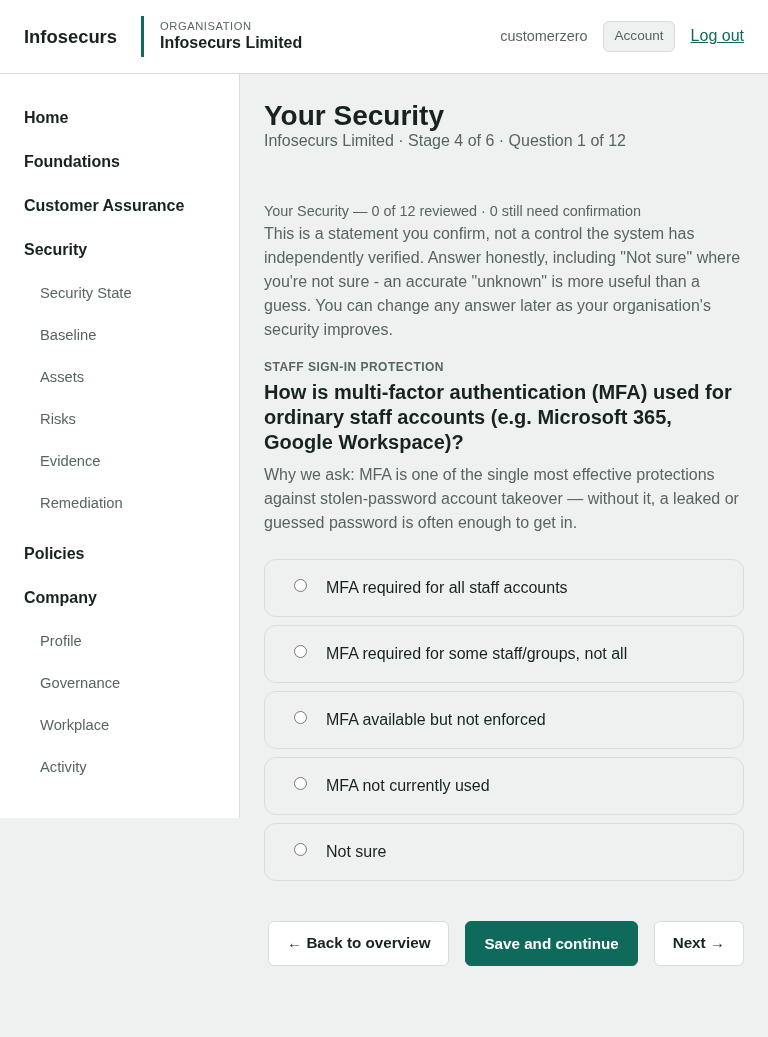
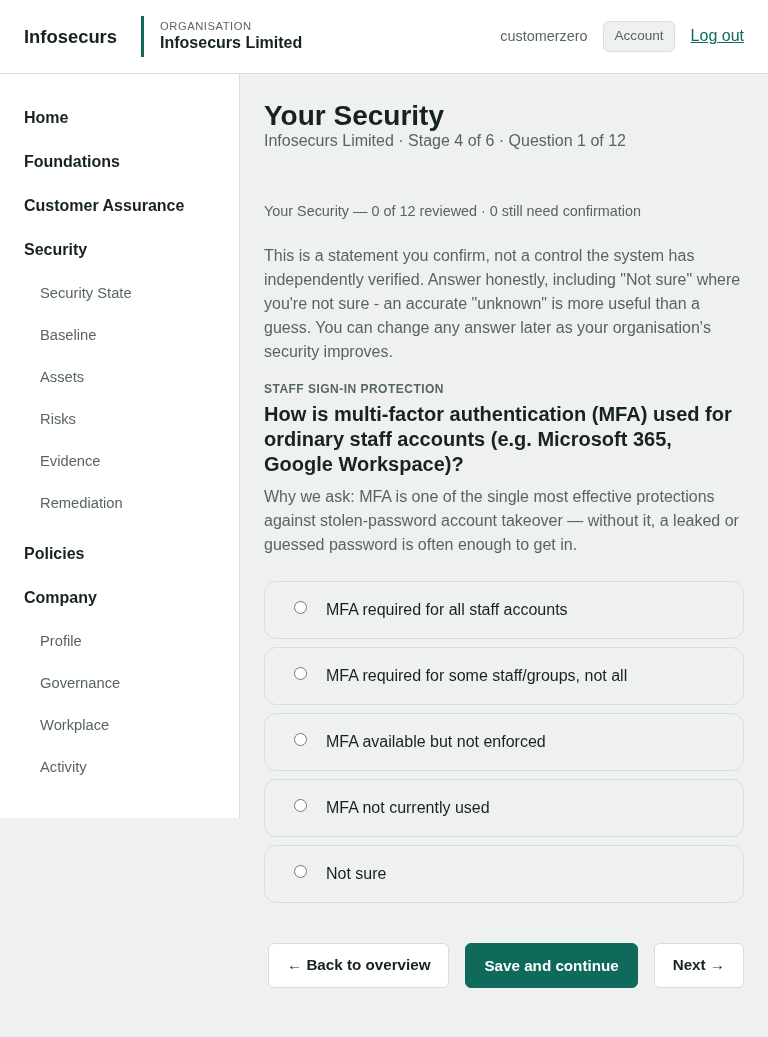
[M008E-WI1] Fix 375px overflow regression in the shared .progress component
Found by a full-repository pytest run after the Phase 2 implementation
commit: core/tests/test_wi6_area_smoke_browser_acceptance.py's
real-browser 375px overflow check failed on the Baseline area (which
redirects into the Stage 4 question page this Work Order restyled) -
scrollWidth 393 versus clientWidth 375. Five other apps' narrow-viewport
tests errored with Postgres deadlock/duplicate-key teardown failures in
the same run - re-running each in isolation after this fix confirms they
were a cascade from the one real failure above, not independent defects.

Root cause: generalising Stage 4's former page-local .stage4-progress
rule into the new shared .progress component dropped its flex-wrap: wrap
- at 375px the progress label text is long enough alone to overflow a
non-wrapping flex row. Fixed by restoring flex-wrap: wrap (plus
justify-content: space-between) on .progress and letting .progress__label
shrink/wrap itself (flex: 1 1 auto; min-width: 0) instead of flex: none.

Verified directly via Playwright scrollWidth/clientWidth measurement at
375px on Home, Foundations, Stage 4, and Company (all 375 == 375, no
overflow); via the originally-failing test and all five originally-
erroring tests, now green in isolation; and via a full organisations +
security_baseline + core rerun (610 passed, 0 failed). After-screenshots
recaptured so the committed evidence reflects the corrected layout, not
the regression. docs/evidence/M008E-DESIGN-DIRECTION.md section 8.1
[…]

diff --git a/static/organisations/css/app.css b/static/organisations/css/app.css
@@ -929,12 +929,26 @@ a:hover { color: var(--color-primary-dark); }
 .progress {
   display: flex;
   align-items: center;
+  justify-content: space-between;
   gap: var(--space-3);
+  /* `flex-wrap: wrap` (carried over from the former page-local
+     `.stage4-progress`, dropped by mistake in an earlier draft of this
+     generalisation and caught by core/tests/
+     test_wi6_area_smoke_browser_acceptance.py's real-browser 375px
+     overflow check against the Stage 4 page this component now also
+     serves, via the legacy security_baseline:baseline redirect) - at
+     375px, Stage 4's own label text ("Your Security — N of 12 reviewed
+     ...") is long enough on its own to overflow a non-wrapping flex row
+     once paired with a second flex item; wrapping lets the label and the
+     track stack onto their own lines instead of forcing the row wider
+     than the viewport. */
+  flex-wrap: wrap;
 }
 .progress__label {
   color: var(--color-text-muted);
   font-size: 0.9rem;
-  flex: none;
+  flex: 1 1 auto;
+  min-width: 0;
 }
 .progress__track {
   flex: 1 1 160px;

diff --git a/docs/evidence/M008E-DESIGN-DIRECTION.md b/docs/evidence/M008E-DESIGN-DIRECTION.md
@@ -239,6 +239,48 @@ environment/fixture-identity gate, not a package-tier entitlement (PID
   which does carry a locally-generated dev secret key, is gitignored and
   was never staged).
 
+### 8.1 A real regression, found after the first round of commits and fixed
+
+After the first implementation commit, a full-repository `pytest -q` run
+(2242 tests, beyond what this Work Order strictly required — it only
+requires the suites for apps whose templates/views were touched) turned
+up one genuine failure and five cascading errors. Isolating each
+individually (re-running them alone once the big run finished) showed:
+
+- `core/tests/test_wi6_area_smoke_browser_acceptance.py::test_every_
+  previously_uncovered_organisation_scoped_area_smoke_at_all_widths`
+  **FAILED** for real: `scrollWidth=393 > clientWidth=375` on the
+  "Baseline" area — which, via `security_baseline.views.baseline_view`'s
+  own legacy-redirect, lands on exactly the Stage 4 question page this
+  Work Order restyled.
+- The other five (`core/tests/test_wi6_xss_browser_acceptance.py` and
+  four other apps' `test_narrow_viewport_regression.py` files) had
+  errored with Postgres deadlocks/duplicate-key teardown failures - a
+  cascade from the first test's browser/DB state, not five independent
+  defects; all five passed cleanly once re-run in isolation after the fix
+  below, confirming they were never a second real problem.
+
+Root cause: generalising Stage 4's former page-local `.stage4-progress`
+into the new shared `.progress` component (§9 below) accidentally dropped
+that rule's own `flex-wrap: wrap` - at 375px, Stage 4's progress label
+text ("Your Security — N of 12 reviewed...") is long enough on its own
+that a non-wrapping flex row forced the whole bar wider than the
+viewport. Fixed in `static/organisations/css/app.css` by restoring
+`flex-wrap: wrap` (plus `justify-content: space-between`) on `.progress`
+and letting `.progress__label` itself shrink/wrap (`flex: 1 1 auto;
+min-width: 0`) instead of `flex: none`. Re-verified directly (Playwright
+`scrollWidth`/`clientWidth` measurement at 375px on Home, Foundations,
+Stage 4, and Company — all now `375 == 375`, no overflow) and via the
+originally-failing test plus all five originally-erroring tests, now all
+green in isolation. The committed `after`-screenshot set was recaptured
+post-fix so it reflects the corrected layout, not the regression.
+
+This is recorded here rather than quietly folded into the earlier
+narrative because the four-invariant delivery chain this Work Order
+operates under depends on an honest account of what actually happened,
+including a mistake this Implementer made and caught itself — not just
+the corrected end state.
+
 ## 9. Complete changed/new file list
 
 New:
